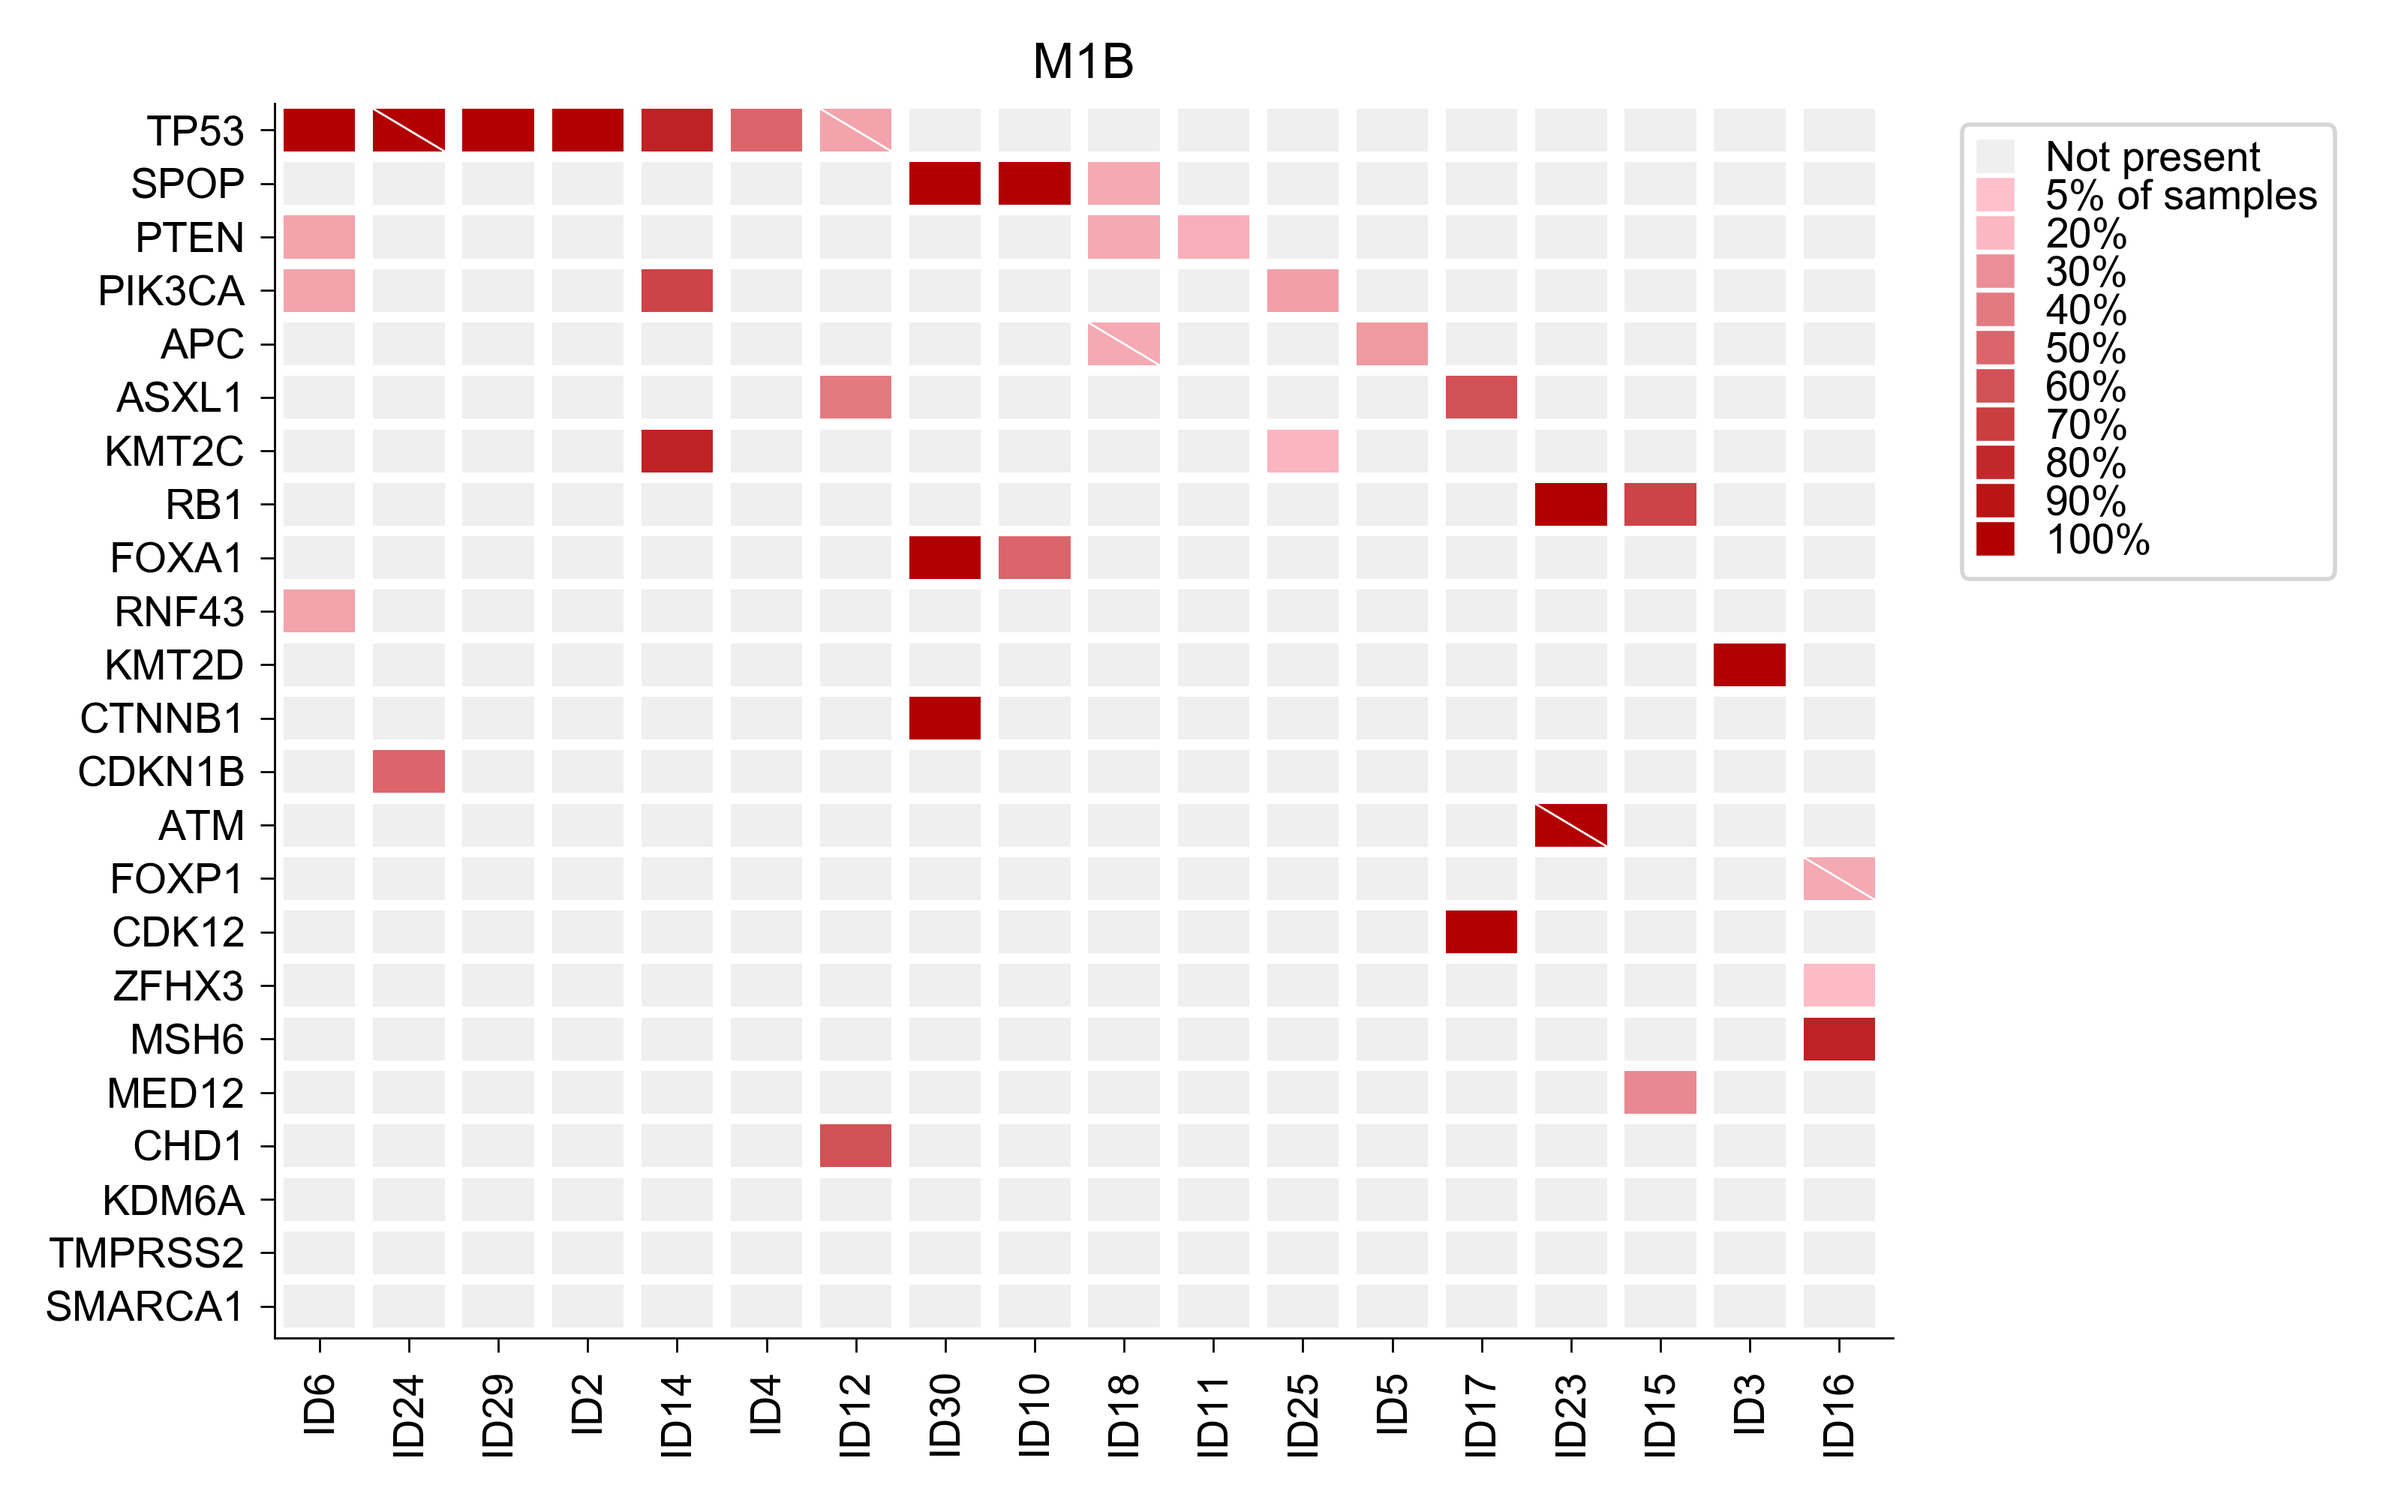
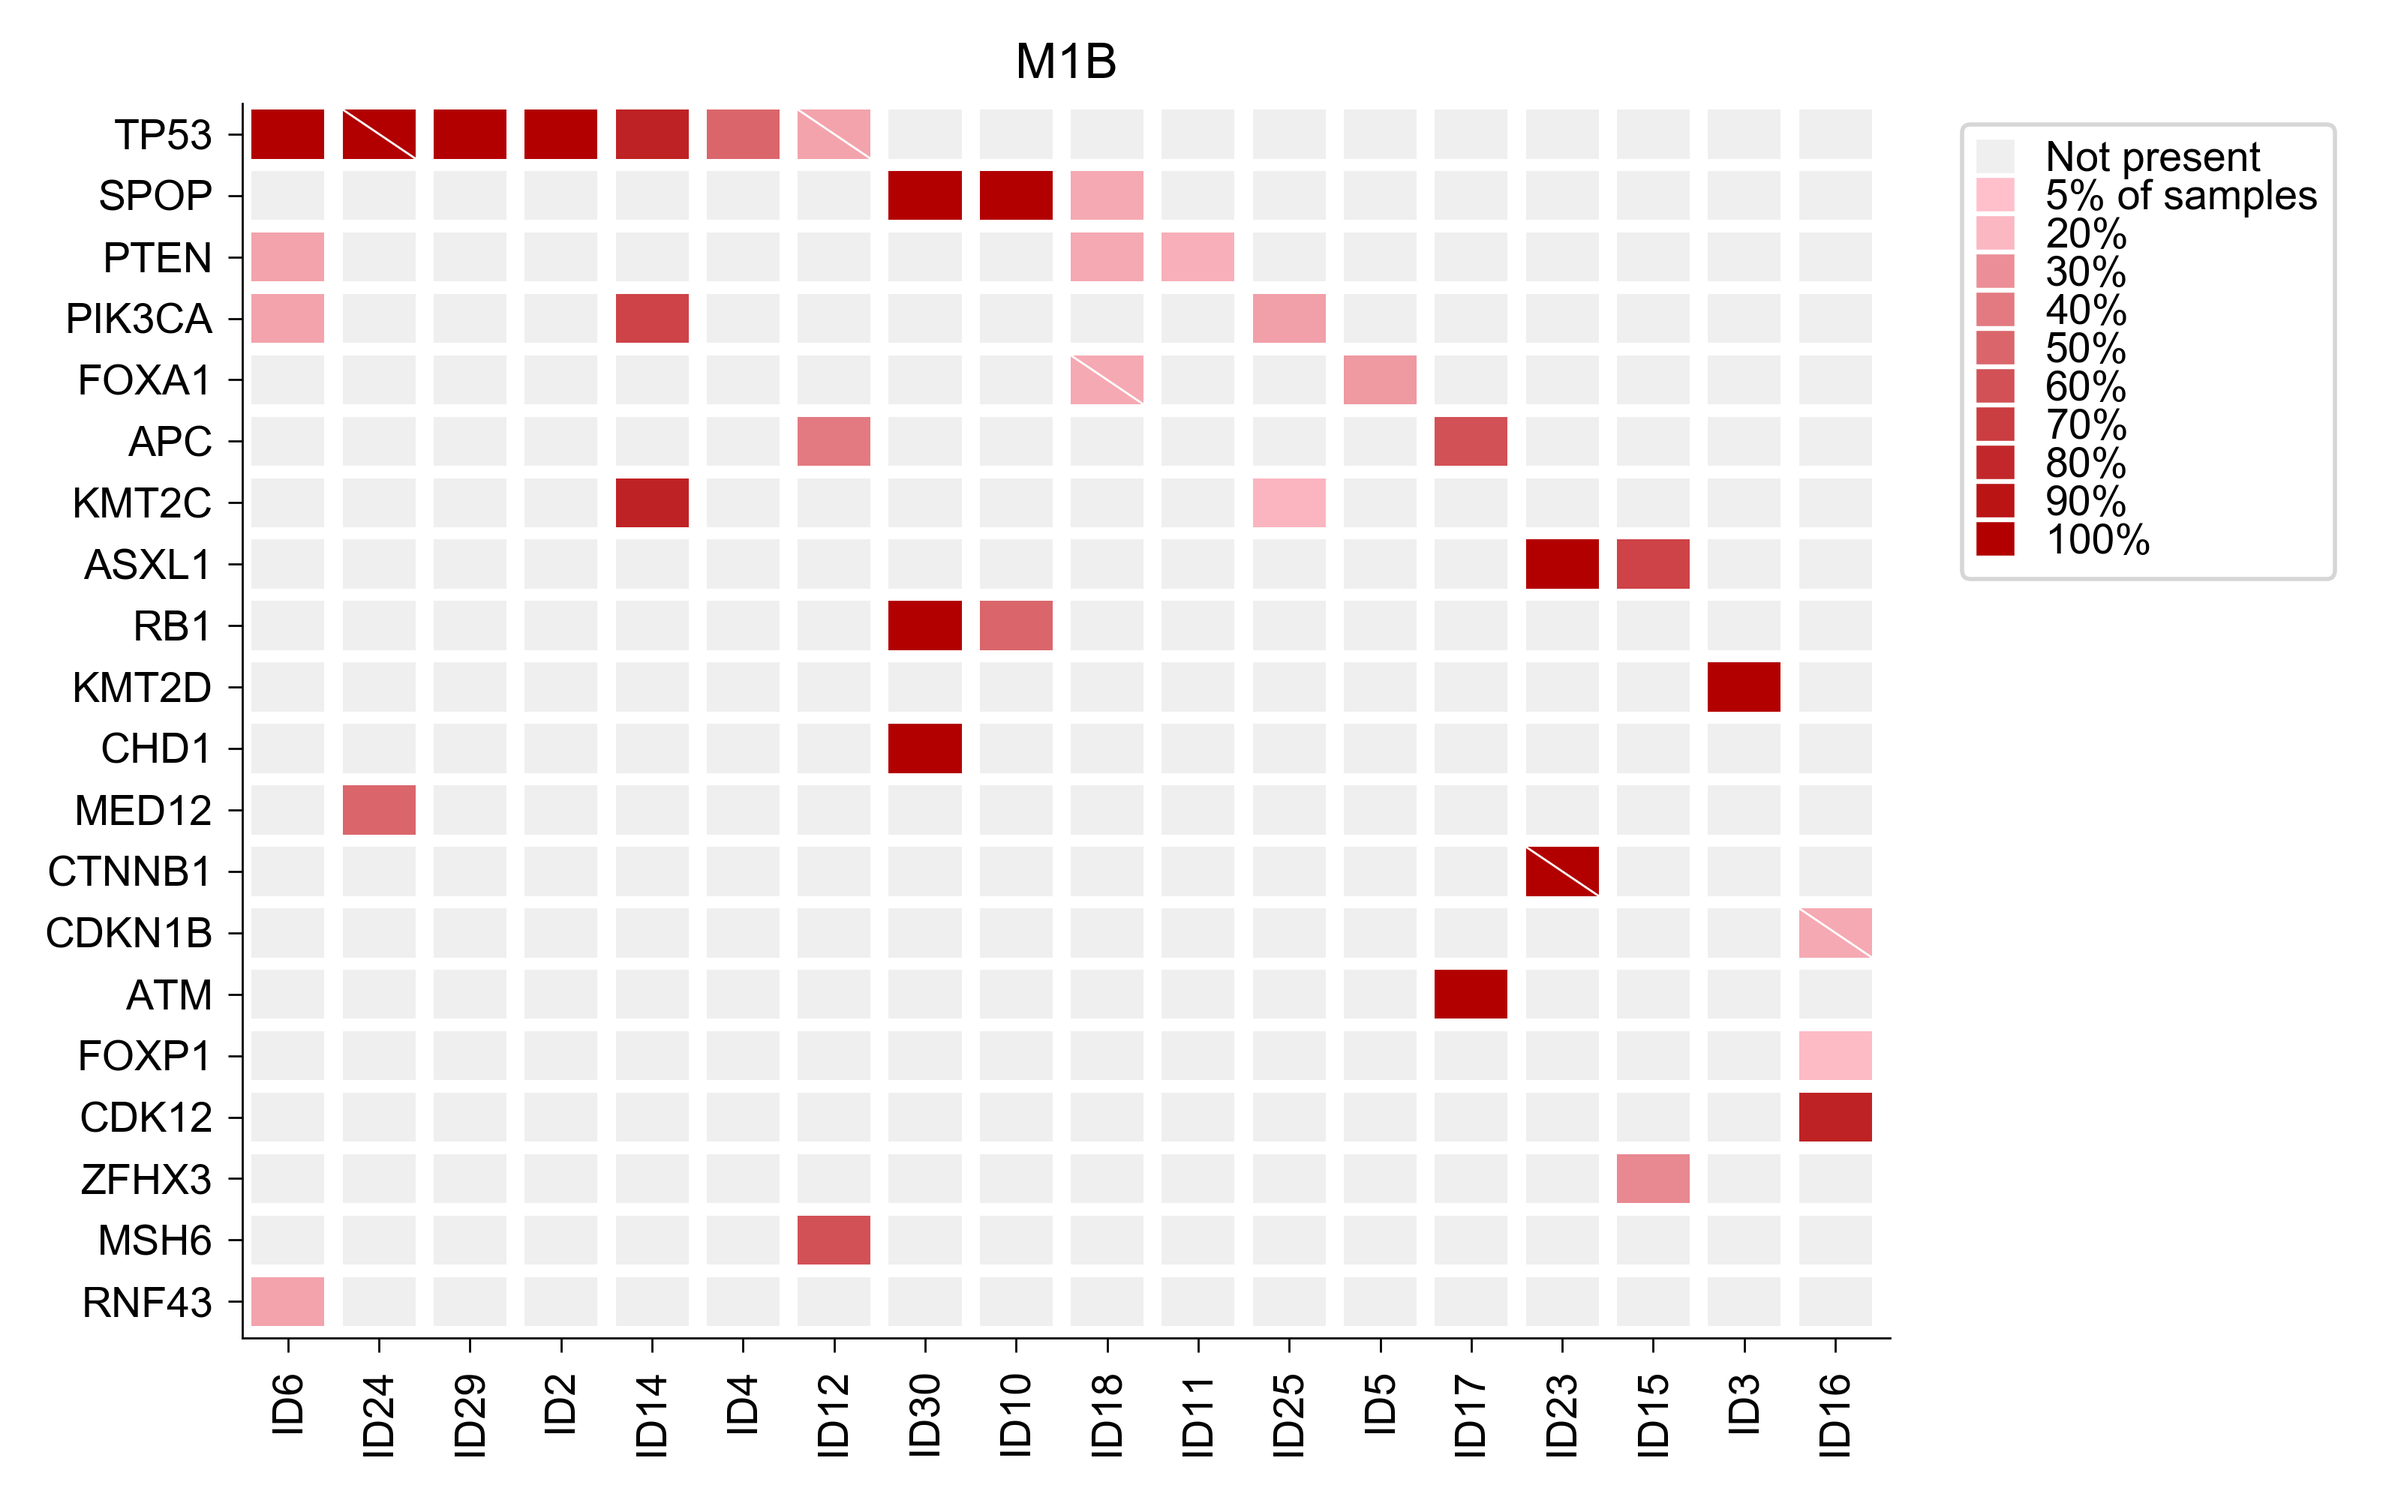
Mutation heatmaps

diff --git a/dev/truncal_mutation_oncoprint_heatmap.py b/dev/truncal_mutation_oncoprint_heatmap.py
@@ -17,8 +17,7 @@ from colour import Color
 
 min_shared_threshold = 0.3
 min_truncal_threshold = 0.8
-cohort = 'M1B'
-
+cohort = 'M1RP'
 
 # ============================================================================
 # Helpers
@@ -115,6 +114,7 @@ pt_sample_counts = pt_sample_counts.reset_index()
 # Get mutation counts
 # =============================================================================
 
+muts = muts[muts['Patient ID'].isin(pt_sample_counts['Patient ID'])]
 mut_counts = muts.groupby(['Patient ID','GENE','POSITION','EFFECT']).count()[['CHROM']]
 mut_counts.columns = ['Mutant samples']
 mut_counts = mut_counts.reset_index()
